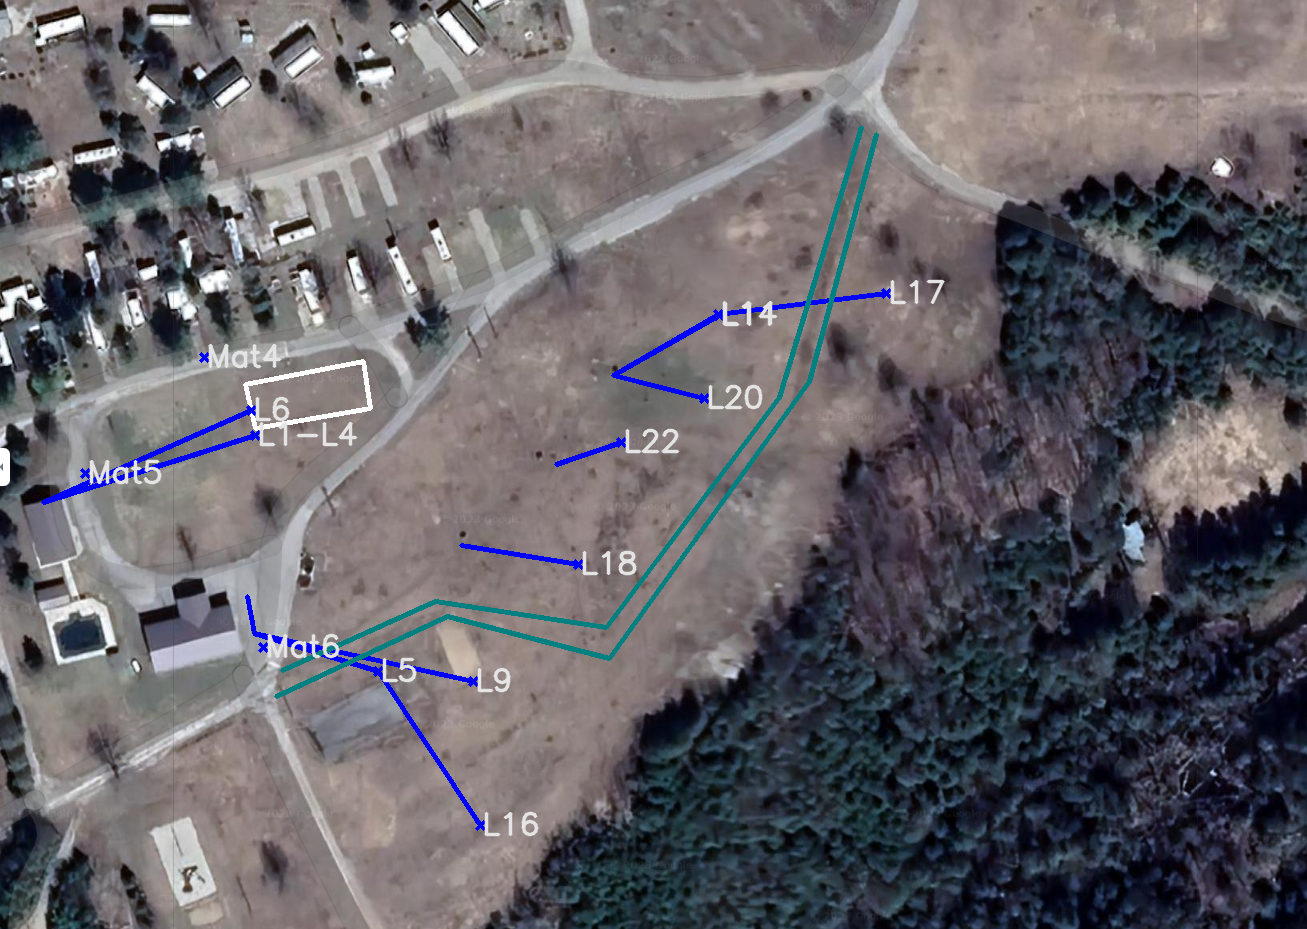
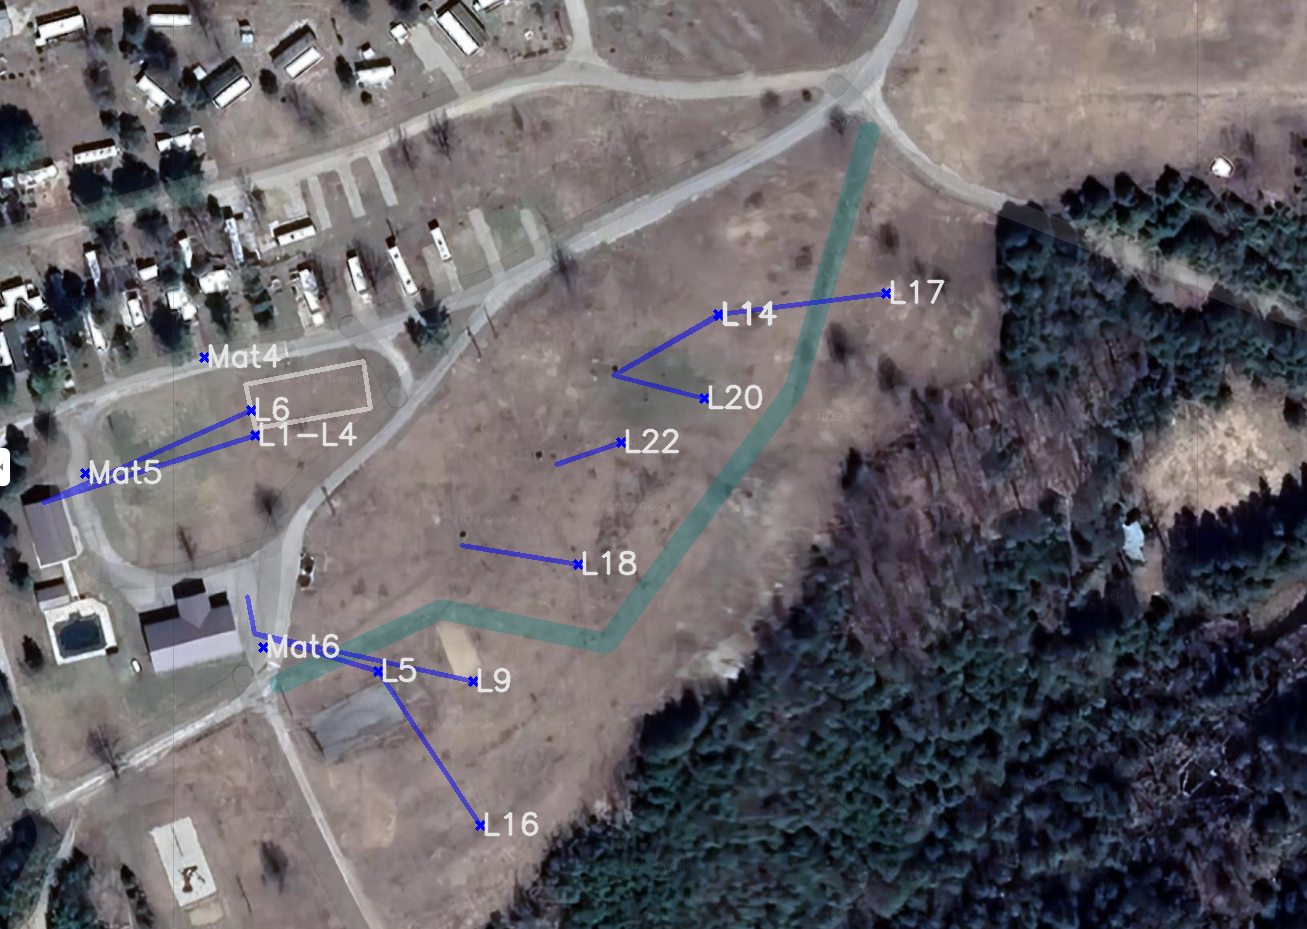
- Roads changed to draw using the centerline - Lines are now transparent - Started to add mypy compatible type checking

diff --git a/starfest_2023_electrical.py b/starfest_2023_electrical.py
@@ -2,12 +2,20 @@
 Draws 2 maps of the 2023 Starfest electrical grid
 """
 
-import cv2
+import cv2      # type: ignore
 import copy
 import numpy as np
+from typing import Optional
+from typing import Callable
+from typing import Any
+
+# For type checking with mypy
+Pixel         = tuple[int, int ]
+Color         = tuple[int, int, int ]
+CoordToPixel  = Callable[ [Any], tuple[int,int] ]  # typing.any = NumPi array :(
 
 class MapFeature:
-  def __init__( self, name: str, feature_type: str, long: float, lat: float, map_name: str, destination:str, usage:int, pixel ):
+  def __init__( self, name: str, feature_type: str, long: float, lat: float, map_name: str, destination: Optional[str], usage: Optional[int], pixel: Optional[Pixel] ):
     """
     Features on the electrical grid maps
 
@@ -23,13 +31,16 @@ class MapFeature:
     self.name         = name
     self.type         = feature_type
     self.coord        = np.array( [long, lat], np.float64 )
-    self.map_name      = map_name
+    self.map_name     = map_name
     self.destination  = destination
     self.users_2023   = usage
     if pixel:
       (x, y) = pixel
       self.pixel    = np.array( [x, y], np.float64 )
 
+MapFeatures = list[ MapFeature ]
+FeatureFilter = Callable[ [MapFeature], bool ]
+FeatureDrawer= Callable[ [MapFeature, Pixel, Optional[Pixel]], None]
 
 MAP_FEATURES = [
   #
@@ -97,17 +108,24 @@ MAP_FEATURES = [
 
   # Approximate location of the chalk road that goes through the south field
   # RR = Road Right, RL = Road Left.
-  MapFeature("RR0",   "Road",    44.075130, -80.838528,  "map1", None,      None, None),
-  MapFeature("RR1",   "Road",    44.074479, -80.838801,  "map1", "RR0",     None, None),
-  MapFeature("RR2",   "Road",    44.073924, -80.839380,  "map1", "RR1",     None, None),
-  MapFeature("RR3",   "Road",    44.073988, -80.839955,  "map1", "RR2",     None, None),
-  MapFeature("RR4",   "Road",    44.073822, -80.840468,  "map1", "RR3",     None, None),
+#  MapFeature("RR0",   "Road",    44.075130, -80.838528,  "map1", None,      None, None),
+#  MapFeature("RR1",   "Road",    44.074479, -80.838801,  "map1", "RR0",     None, None),
+#  MapFeature("RR2",   "Road",    44.073924, -80.839380,  "map1", "RR1",     None, None),
+#  MapFeature("RR3",   "Road",    44.073988, -80.839955,  "map1", "RR2",     None, None),
+#  MapFeature("RR4",   "Road",    44.073822, -80.840468,  "map1", "RR3",     None, None),
 
-  MapFeature("RL0",   "Road",    44.075114, -80.838477,  "map1", None,      None, None),
-  MapFeature("RL1",   "Road",    44.074518, -80.838703,  "map1", "RL0",     None, None),
-  MapFeature("RL2",   "Road",    44.073849, -80.839371,  "map1", "RL1",     None, None),
-  MapFeature("RL3",   "Road",    44.073951, -80.839914,  "map1", "RL2",     None, None),
-  MapFeature("RL4",   "Road",    44.073759, -80.840486,  "map1", "RL3",     None, None),
+#  MapFeature("RL0",   "Road",    44.075114, -80.838477,  "map1", None,      None, None),
+#  MapFeature("RL1",   "Road",    44.074518, -80.838703,  "map1", "RL0",     None, None),
+#  MapFeature("RL2",   "Road",    44.073849, -80.839371,  "map1", "RL1",     None, None),
+#  MapFeature("RL3",   "Road",    44.073951, -80.839914,  "map1", "RL2",     None, None),
+#  MapFeature("RL4",   "Road",    44.073759, -80.840486,  "map1", "RL3",     None, None),
+
+  MapFeature("RC0",   "Road",    44.075122, -80.838502,  "map1", None,      None, None),
+  MapFeature("RC1",   "Road",    44.074498, -80.838752,  "map1", "RC0",     None, None),
+  MapFeature("RC2",   "Road",    44.073886, -80.839380,  "map1", "RC1",     None, None),
+  MapFeature("RC3",   "Road",    44.073969, -80.839934,  "map1", "RC2",     None, None),
+  MapFeature("RC4",   "Road",    44.073790, -80.840477,  "map1", "RC3",     None, None),
+
 ]
 
 def compute_coord_to_pixel_function(entry1 : MapFeature, entry2 : MapFeature, basis: MapFeature ):
@@ -159,7 +177,7 @@ def compute_coord_to_pixel_function(entry1 : MapFeature, entry2 : MapFeature, ba
   return lambda coord : coord_to_pixel_helper( coord, M, basis )
 
 
-def find_map_entry( features, name: str ):
+def find_map_entry( features: MapFeatures, name: str ):
   """
   Finds a named feature in a list of features.
   
@@ -172,7 +190,7 @@ def find_map_entry( features, name: str ):
   assert( False )
 
 
-def get_destination_pixel( map_features, destination_name : str, coord_to_pixel ):
+def get_destination_pixel( map_features : MapFeatures, destination_name : Optional[str], coord_to_pixel: CoordToPixel ):
   """
   Given a destination name, compute the pixel location of the destination
   """
@@ -182,7 +200,7 @@ def get_destination_pixel( map_features, destination_name : str, coord_to_pixel 
   return None
 
 
-def draw_features( map_features, coord_to_pixel, feature_filter, feature_drawer ):
+def draw_features( map_features : MapFeatures, coord_to_pixel : CoordToPixel, feature_filter : FeatureFilter, feature_drawer: FeatureDrawer ):
   """
   Draw some map features
   
@@ -191,37 +209,34 @@ def draw_features( map_features, coord_to_pixel, feature_filter, feature_drawer 
   feature_filter  : function that returns true if we're to draw this feature
   feature_drawer  : The function that actually draws the feature
   """
-  for feature in map_features:
-    pixel = coord_to_pixel( feature.coord )
-    destination_pixel = get_destination_pixel( map_features, feature.destination, coord_to_pixel )
-    if feature_filter(feature, pixel, destination_pixel ):
+  for feature in filter( feature_filter, map_features):
+      pixel = coord_to_pixel( feature.coord )
+      destination_pixel = get_destination_pixel( map_features, feature.destination, coord_to_pixel )
       feature_drawer( feature, pixel, destination_pixel )
 
-
-def filter_for_type( filter_type ):
+def filter_for_type( filter_type : str ):
   """
   Create a function that returns true if a feature is a particular type
   """
-  return lambda feature, pixel, dest_pixel: feature.type == filter_type
+  return lambda feature: feature.type == filter_type
 
 
-def filter_for_line( filter_type ):
+def filter_for_line( filter_type : str ):
   """
   Create a function that returns true if a feature is a type and has a destination
   """
-  return lambda feature, pixel, dest_pixel: feature.type == filter_type and dest_pixel
+  return lambda feature: feature.type == filter_type and feature.destination
 
 
-def create_line_drawer( image, color ):
+def create_line_drawer( image, color: Color, line_width: int ):
   """
   Create a function that draws a line for features with a destination
   """
-  line_width = 4
   return lambda feature, pixel, dest_pixel : cv2.line( 
       image, pixel, dest_pixel, color, line_width )
 
 
-def create_label_drawer( image, color ):
+def create_label_drawer( image, color: Color ):
   """
   Create a function that uses the feature name to draw a label
   """
@@ -231,7 +246,7 @@ def create_label_drawer( image, color ):
         cv2.FONT_HERSHEY_SIMPLEX, 1, color, 2, cv2.LINE_AA, False ) 
 
 
-def draw_crosshair( image, point, color ):
+def draw_crosshair( image, point: Pixel, color: Color ):
   """
   Draws a small crosshair at point
   """
@@ -247,14 +262,14 @@ def draw_crosshair( image, point, color ):
   cv2.line( image, lower_right, upper_left, color, line_width ) 
 
 
-def create_crosshair_drawer( image, color ):
+def create_crosshair_drawer( image, color: Color ):
   """
   Create a function that draws a crosshair
   """
   return lambda feature, pixel, dest_pixel: draw_crosshair( image, pixel, color ) 
 
 
-def draw_spools( image, features, coord_to_pixel ):
+def draw_spools( image, features : MapFeatures, coord_to_pixel: CoordToPixel ):
   """
   Draw all the spools.
   """
@@ -264,7 +279,7 @@ def draw_spools( image, features, coord_to_pixel ):
   draw_features( features, coord_to_pixel, filter_for_type("Spool"), create_label_drawer( image, off_white ))
 
 
-def draw_mats( image, features, coord_to_pixel ):
+def draw_mats( image, features: MapFeatures, coord_to_pixel: CoordToPixel ):
   """
   Draw all the road mats.
   """
@@ -273,24 +288,43 @@ def draw_mats( image, features, coord_to_pixel ):
   draw_features( features, coord_to_pixel, filter_for_type("Mat"), create_crosshair_drawer( image, blue ))
   draw_features( features, coord_to_pixel, filter_for_type("Mat"), create_label_drawer( image, off_white ))
 
+def draw_lines( image, features: MapFeatures, coord_to_pixel: CoordToPixel, feature_types: list[str], color: Color, alpha: float, width: int = 4 ):
+  """
+  Draw lines for a set of feature types.  Allows blending.
+  
+  image:            The image we're drawing onto
+  features:         Feature list
+  coord_to_pixel:   Function that convers GPS coordinate to pixels
+  color:            Line color
+  alpha:            Transparency.  0-1,  1 = full opaque
+  width:            Line width
+  """
 
-def draw_roads( image, features, coord_to_pixel ):
+  beta = 1-alpha
+  overlay = image.copy()  # draw lines to an overlay at 100% transparency, then blend the overlay and the original image
+  for feature_type in feature_types:
+    draw_features( features, coord_to_pixel, filter_for_line(feature_type), create_line_drawer( overlay, color, width ))
+  image = cv2.addWeighted( overlay, alpha, image, beta, 0, image )
+
+def draw_roads( image, features: MapFeatures, coord_to_pixel: CoordToPixel ):
   """
   Draw all the roads
   """
   cyan = (128,128,0)
-  draw_features( features, coord_to_pixel, filter_for_line("Road"), create_line_drawer( image, cyan ))
+  alpha = .30              # draw roads with 30% transparency
+  road_width = 20
+  draw_lines( image, features, coord_to_pixel, ["Road"], cyan, alpha, road_width )
 
-
-def draw_tent( image, features, coord_to_pixel ):
+def draw_tent( image, features: MapFeatures, coord_to_pixel: CoordToPixel ):
   """
   Draw the tent
   """
   white = (255,255,255)
-  draw_features( features, coord_to_pixel, filter_for_line("Tent"), create_line_drawer( image, white ))
+  alpha = .50             # draw tent at 50 percent tranparency
+  draw_lines( image, features, coord_to_pixel, ["Tent"], white, alpha )
 
 
-def draw_electric_cords( image, features, coord_to_pixel ):
+def draw_electric_cords( image, features: MapFeatures, coord_to_pixel: CoordToPixel ):
   """
   Draw the electric grid
   
@@ -299,38 +333,25 @@ def draw_electric_cords( image, features, coord_to_pixel ):
   the food truck in 2023.
   """
   blue = (255, 0, 0 )
-  draw_features( features, coord_to_pixel, filter_for_line("Spool"), create_line_drawer( image, blue ))
-  draw_features( features, coord_to_pixel, filter_for_line("Source"), create_line_drawer( image, blue ))
-  draw_features( features, coord_to_pixel, filter_for_line("Mat"), create_line_drawer( image, blue ))
+  alpha = .50             # draw tent at 50 percent tranparency
+  draw_lines( image, features, coord_to_pixel, ["Spool", "Source", "Mat" ], blue, alpha )
 
 
-def draw_all_features( image, map_features, coord_to_pixel ):
+def draw_all_features( image, map_features: MapFeatures, coord_to_pixel: CoordToPixel ):
   """
   Draw everything on a map.
   
   order matters. We want the labels for the mats and spools drawn
   after the road, electric cords, and tent so they show up well.
   """
-  draw_electric_cords( image, map_features, coord_to_pixel )
   draw_roads         ( image, map_features, coord_to_pixel )
+  draw_electric_cords( image, map_features, coord_to_pixel )
   draw_tent          ( image, map_features, coord_to_pixel )
   draw_mats          ( image, map_features, coord_to_pixel )
   draw_spools        ( image, map_features, coord_to_pixel )
 
 
-def filter_features(map_features, map_name):
-  """
-  Given an existing feature list, create a new feature list
-  filtered by mapname and return it.
-  """
-  filtered_map_features = []
-  for feature in map_features:
-    if feature.map_name == map_name:
-      filtered_map_features.append( feature )
-  return filtered_map_features 
-
-
-def draw_map( map_name ):
+def draw_map( map_name: str ):
   """
   Draws one of the electric grid maps
   
@@ -349,7 +370,7 @@ def draw_map( map_name ):
   """
   2.  Find all the features for this map
   """
-  map_features = filter_features( MAP_FEATURES, map_name )
+  map_features = list(filter( lambda x: x.map_name == map_name, MAP_FEATURES ))
 
   """
   3.  Compute a function that maps GPS coordinates to pixels
